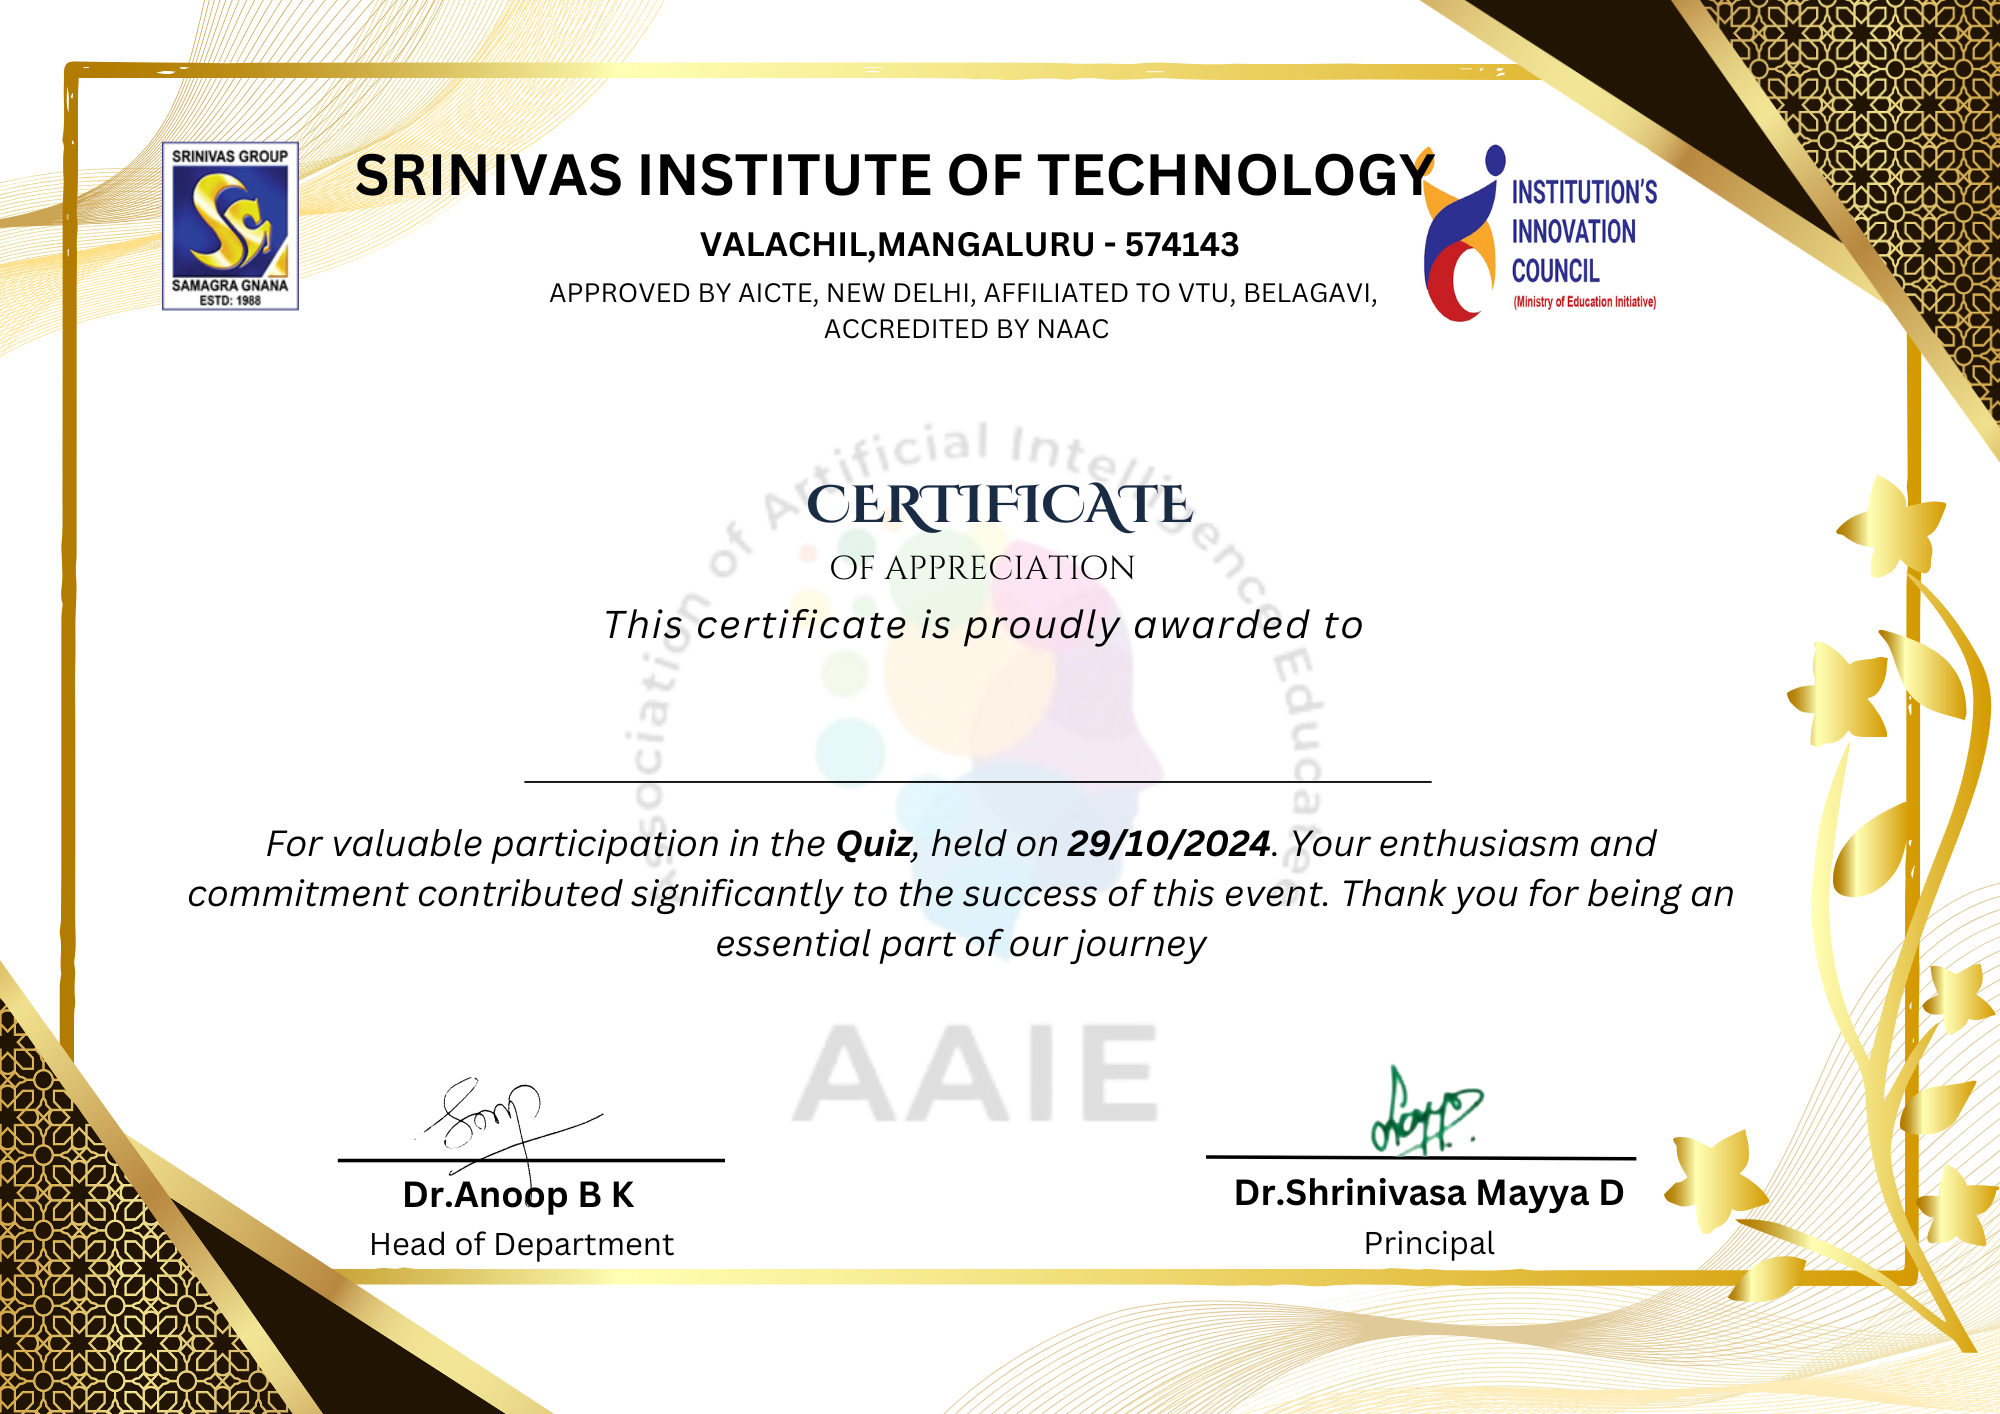
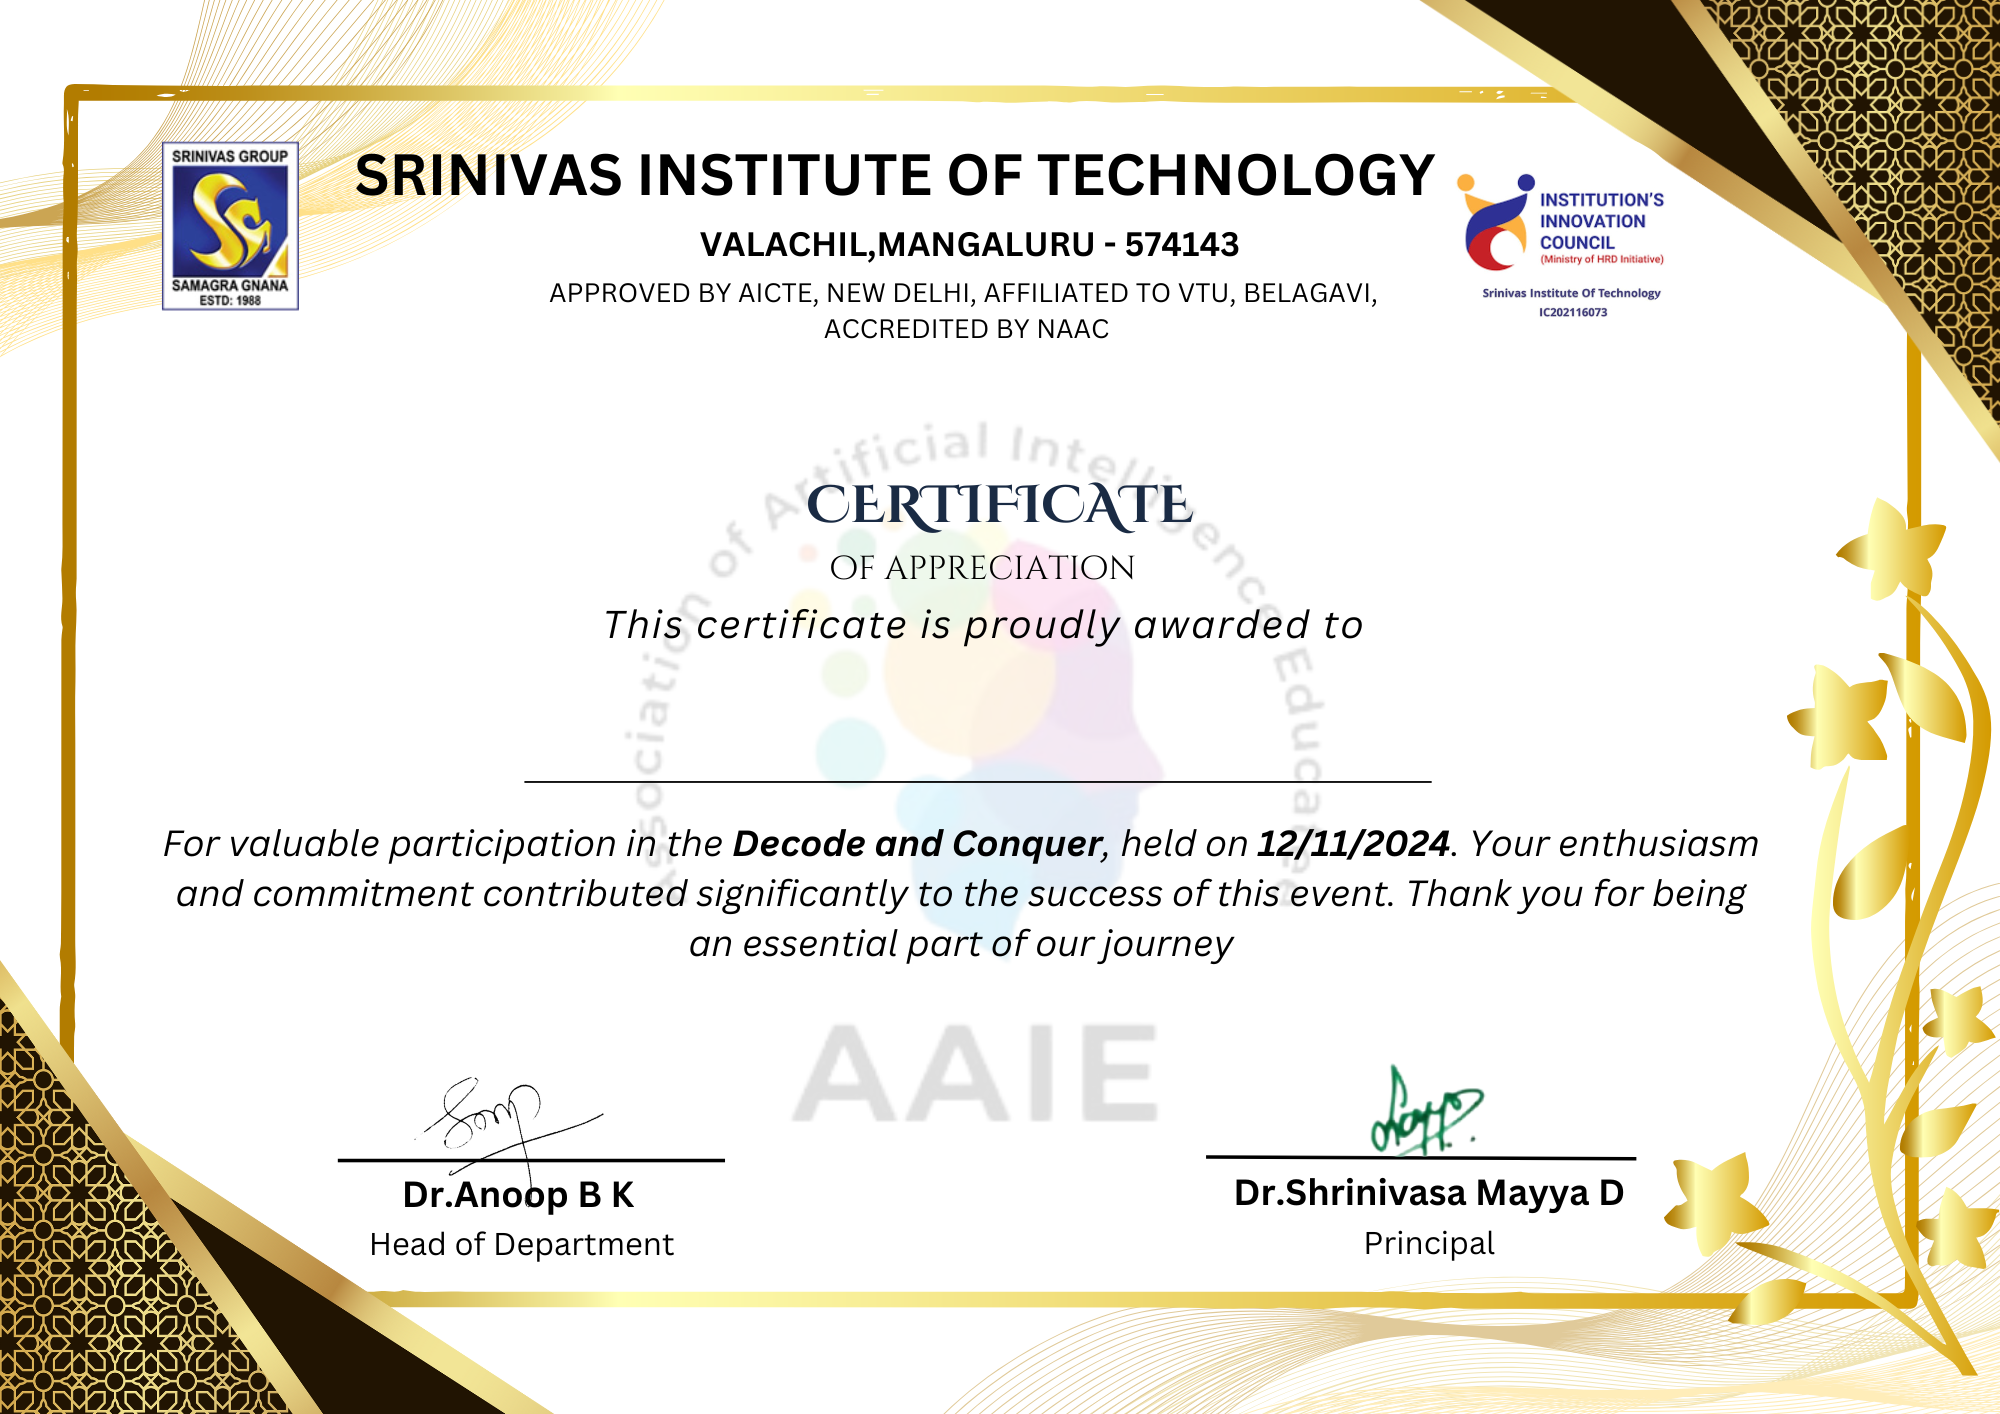
new

Changed region(s): [[0.186, 0.3423, 1.0, 0.9646], [0.031, 0.0311, 0.837, 0.2489], [0.093, 0.5912, 0.868, 0.6846]]

diff --git a/main.py b/main.py
@@ -102,17 +102,17 @@ def main():
     <!-- First Card -->
     <div class="card ax-center text-white mb-10">
       <div class="image-card">
-        <img src="https://beebom.com/wp-content/uploads/2023/05/Untitled-design-4-5.jpg" alt="BGMI Event ">
+        <img src="https://altius-five.vercel.app/media/3.jpg" alt="BGMI Event ">
       </div>
     </div>
     
     <!-- Second Card -->
     <div class="card ax-center text-white mb-10">
       <div class="text-content">
-        <h1>Quiz Competition Participation</h1>
+        <h1>Decode and Conquer Competition Participation</h1>
         <p>
           Dear {name},<br><br>
-          We are thrilled to announce that your certificate for participating in the QUIZ Competition is now ready! 🌟 Please find the attached PDF certificate for your records.<br><br>
+          We are thrilled to announce that your certificate for participating in the Decode and Conquer Competition is now ready! 🌟 Please find the attached PDF certificate for your records.<br><br>
           Thank you for your enthusiasm and contributions. We hope you had an amazing time and look forward to your participation in future events!
         </p>
         <p>

diff --git a/filename.py b/filename.py
@@ -9,9 +9,9 @@ def xlsxName():
 
 
 def user_email():
-    email = 'email'
+    email = 'aimlteam18@gmail.com'
     return email
 
 def sender_passkey():
-    passkey = 'password'
+    passkey = 'dmwg ofpi sniw iddr'
     return passkey
